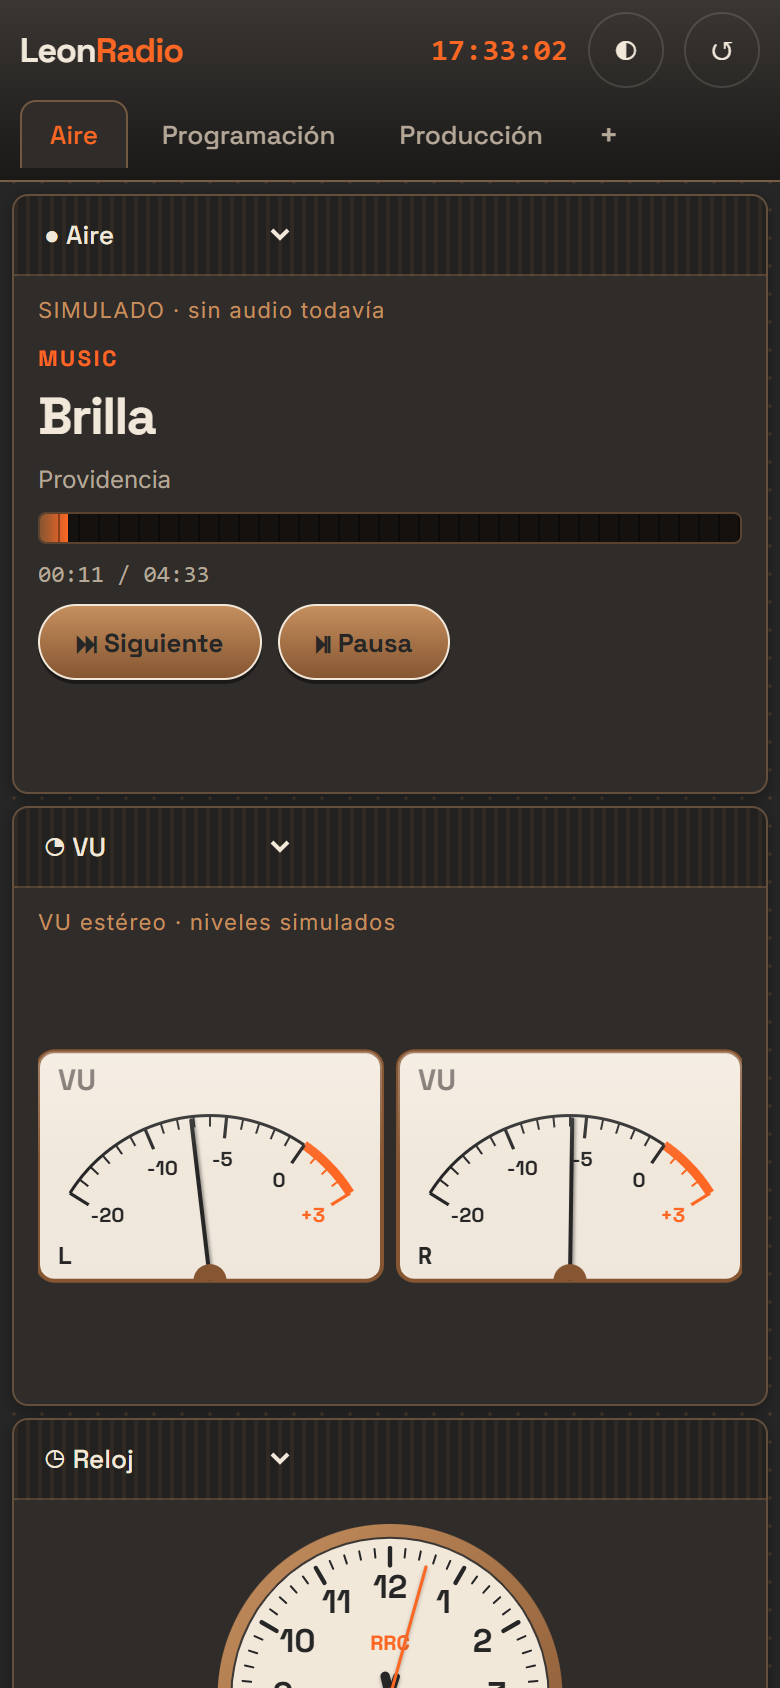
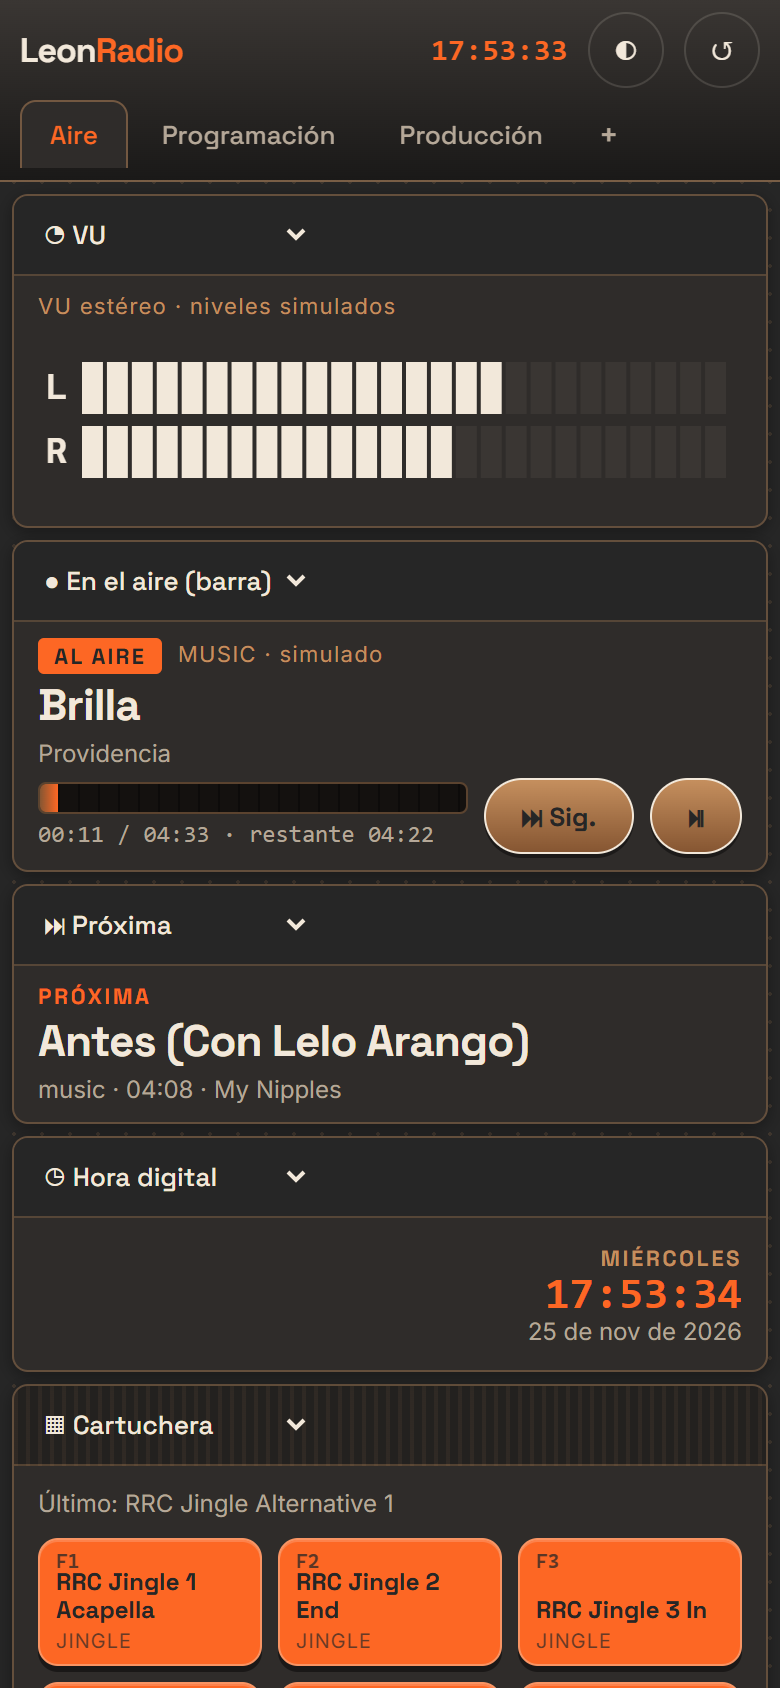
UI: nueva composición del workspace Aire (franja delgada + tres columnas)
- franja superior compacta: VU en barras, En el aire con transporte, Próxima y Hora digital
- cuerpo en tres columnas: Cartuchera+Historial | Cola | Dial/RDS+Reloj
- áreas con encabezado compacto (aparece al pasar el cursor) y barra de estado
- servidor: archivos de la UI con Cache-Control: no-cache
- capturas regeneradas; 12 pruebas

diff --git a/ui/src/js/areas.js b/ui/src/js/areas.js
@@ -6,7 +6,7 @@ import { render } from "./renderer.js";
 
 let seq = 0;
 export const newId = () => `a${Date.now().toString(36)}${(seq++).toString(36)}`;
-export const area = (editor) => ({ type: "area", id: newId(), editor });
+export const area = (editor, slim = false) => ({ type: "area", id: newId(), editor, ...(slim ? { slim: true } : {}) });
 export const split = (dir, a, b, ratio = 0.5) => ({ type: "split", dir, ratio, a, b });
 
 // ---- operaciones puras sobre el árbol ------------------------------------
@@ -34,6 +34,15 @@ export function closeArea(tree, id) {
 
 export function setEditor(tree, id, editor) {
   return mapTree(tree, (n) => (n.id === id ? { ...n, editor } : n));
+}
+
+/** Encabezado compacto: el área ocupa todo el espacio y el encabezado aparece al pasar el cursor. */
+export function setSlim(tree, id, slim) {
+  return mapTree(tree, (n) => {
+    if (n.id !== id) return n;
+    const { slim: _old, ...rest } = n;
+    return slim ? { ...rest, slim: true } : rest;
+  });
 }
 
 export function setRatio(tree, splitNode, ratio) {
@@ -119,7 +128,7 @@ export class AreaManager {
 
   buildArea(node) {
     const sec = document.createElement("section");
-    sec.className = "area";
+    sec.className = node.slim ? "area slim" : "area";
     const head = document.createElement("header");
 
     const sel = document.createElement("select");
@@ -145,6 +154,8 @@ export class AreaManager {
     sp.className = "sp";
     head.append(
       sel, sp,
+      mk("⇕", node.slim ? "Mostrar siempre el encabezado" : "Encabezado compacto (aparece al pasar el cursor)",
+         () => this.commit(setSlim(this.tree, node.id, !node.slim))),
       mk("◫", "Dividir lado a lado", () => this.commit(splitArea(this.tree, node.id, "h"))),
       mk("⬓", "Dividir arriba/abajo", () => this.commit(splitArea(this.tree, node.id, "v"))),
       mk("✕", "Cerrar área", () => this.commit(closeArea(this.tree, node.id)), countAreas(this.tree) <= 1),

diff --git a/ui/src/js/main.js b/ui/src/js/main.js
@@ -1,7 +1,7 @@
 import { connectEvents, getEditors, getInfo } from "./api.js";
 import { AreaManager, area, split } from "./areas.js";
 
-const KEY = "leonradio.workspaces.v4";
+const KEY = "leonradio.workspaces.v5";
 const $ = (s) => document.querySelector(s);
 const store = {
   get() { try { return JSON.parse(localStorage.getItem(KEY)); } catch { return null; } },
@@ -12,8 +12,14 @@ const defaults = () => ({
   active: 0,
   list: [
     { name: "Aire", tree: split("v",
-        split("h", area("aire"), split("h", area("vu"), split("h", area("reloj"), area("dial"), 0.42), 0.42), 0.30),
-        split("h", area("cola"), split("h", area("cartuchera"), area("historial"), 0.55), 0.34), 0.5) },
+        // franja superior delgada: VU | en el aire | próxima | hora
+        split("h", area("vu", true),
+          split("h", area("aire-barra", true), split("h", area("proxima", true), area("hora", true), 0.55), 0.54), 0.17),
+        // cuerpo en tres columnas: cartuchera+historial | cola (protagonista) | dial+reloj
+        split("h",
+          split("v", area("cartuchera"), area("historial"), 0.6),
+          split("h", area("cola"), split("v", area("dial"), area("reloj"), 0.4), 0.63), 0.27),
+        0.17) },
     { name: "Programación", tree: split("h", area("cola"), area("historial"), 0.45) },
     { name: "Producción", tree: split("h",
         split("v", area("aire"), area("cola"), 0.4),
@@ -72,6 +78,7 @@ async function boot() {
   tickClock(); setInterval(tickClock, 1000);
   const [info, editors] = await Promise.all([getInfo(), getEditors()]);
   $("#station").textContent = info.station;
+  $("#status-text").textContent = `${info.config.name} · motor simulado · API v${info.api_version}`;
   mgr = new AreaManager($("#screen"), {
     editors,
     onChange: (tree) => { ws.list[ws.active].tree = tree; store.set(ws); },

diff --git a/ui/src/css/app.css b/ui/src/css/app.css
@@ -136,3 +136,30 @@ table.u-tab{width:100%;border-collapse:collapse;font-size:12.5px}
   .btn-i{width:38px;height:38px}
   .area select{padding:6px 4px;font-size:13px}
 }
+
+/* ---- tonos nuevos y franja compacta ---- */
+.u-label.title{font:700 22px/1.15 var(--display);letter-spacing:-.02em;white-space:nowrap;overflow:hidden;text-overflow:ellipsis;max-width:100%}
+.u-label.onair{display:inline-block;background:var(--c-orange);color:var(--c-carbon);font:700 11px var(--display);letter-spacing:.1em;padding:2px 8px;border-radius:3px}
+.u-row>.u-col{flex:1 1 auto;min-width:0}
+.area.slim{position:relative}
+.area.slim>header{position:absolute;top:0;left:0;right:0;z-index:5;background:var(--bg);opacity:0;pointer-events:none;transition:opacity .15s}
+.area.slim:hover>header,.area.slim:focus-within>header{opacity:1;pointer-events:auto}
+.area.slim .body{padding:8px 12px}
+.area.slim .u-col{gap:3px}
+.area.slim .cmp{min-height:50px}
+.dclock{display:flex;flex-direction:column;justify-content:center;align-items:flex-end;height:100%;min-height:60px;text-align:right}
+.dc-time{font:700 clamp(22px,3.2vw,40px)/1 ui-monospace,Consolas,monospace;color:var(--c-orange);letter-spacing:.01em}
+.dc-day{font:700 11px var(--display);letter-spacing:.12em;color:var(--c-bronze);text-transform:uppercase}
+.dc-date{font:500 12px var(--body);color:var(--ink-2)}
+.status{flex:none;padding:3px 12px;font:500 11px var(--mono);color:var(--ink-2);border-top:1px solid rgba(197,143,94,.3);background:rgba(0,0,0,.25)}
+@media (max-width:820px){
+  .area.slim>header{position:static;opacity:1;pointer-events:auto}
+  .status{position:sticky;bottom:0}
+  .u-label.title{white-space:normal}
+}
+@media (max-width:820px){
+  .area.slim{min-height:0}
+  .area.slim .body{max-height:none}
+  .area.slim .cmp{min-height:90px}
+  .status{position:static}
+}

diff --git a/ui/src/js/components/vu-meter.js b/ui/src/js/components/vu-meter.js
@@ -73,6 +73,26 @@ function meter(ctx, T, x, y, w, h, value, label) {
   ctx.restore();
 }
 
+// Versión compacta (áreas bajas): dos barras de LED horizontales, como en una franja de consola.
+function bars(ctx, T, w, h, v) {
+  const rows = [["L", v[0]], ["R", v[1]]];
+  const gapY = 6, rowH = Math.max(8, Math.min(26, (h - gapY * 3) / 2));
+  const top = (h - (rowH * 2 + gapY)) / 2;
+  const x0 = 22, segs = 26, gap = 2;
+  const segW = Math.max(3, (w - x0 - 8 - gap * (segs - 1)) / segs);
+  rows.forEach(([label, val], i) => {
+    const y = top + i * (rowH + gapY);
+    ctx.fillStyle = T.cream; ctx.font = `700 ${Math.max(10, rowH * 0.7)}px ${FONT_MONO}`;
+    ctx.textAlign = "left"; ctx.textBaseline = "middle";
+    ctx.fillText(label, 4, y + rowH / 2);
+    const on = Math.round(Math.min(1, val) * segs);
+    for (let s = 0; s < segs; s++) {
+      ctx.fillStyle = s < on ? (s >= segs - 4 ? T.orange : s >= segs - 9 ? T.bronze : T.cream) : T.g700;
+      ctx.fillRect(x0 + s * (segW + gap), y, segW, rowH);
+    }
+  });
+}
+
 export function vuMeter() {
   const target = [0, 0];
   const value = [0, 0];
@@ -86,6 +106,7 @@ export function vuMeter() {
       const k = target[i] > value[i] ? 0.035 : 0.12;
       value[i] += (target[i] - value[i]) * (1 - Math.exp(-dt / k));
     }
+    if (h < 150) { bars(ctx, T, w, h, value); return; }   // áreas bajas: barras de LED
     // caras con proporción de VU real (1.5:1), centradas verticalmente
     const gap = 8;
     const mw = Math.min((w - gap) / 2, h * 1.5);

diff --git a/ui/src/js/components/digital-clock.js b/ui/src/js/components/digital-clock.js
@@ -1,0 +1,27 @@
+// Reloj digital grande para franjas compactas: hora de la emisora, día y fecha.
+export function digitalClock(props) {
+  const tz = props.timezone || "America/Bogota";
+  const tfmt = new Intl.DateTimeFormat("es-CO", { timeZone: tz, hour12: false, hour: "2-digit", minute: "2-digit", second: "2-digit" });
+  const dayf = new Intl.DateTimeFormat("es-CO", { timeZone: tz, weekday: "long" });
+  const datef = new Intl.DateTimeFormat("es-CO", { timeZone: tz, day: "numeric", month: "short", year: "numeric" });
+
+  const root = document.createElement("div");
+  root.className = "dclock";
+  const day = document.createElement("div"); day.className = "dc-day";
+  const time = document.createElement("div"); time.className = "dc-time";
+  const date = document.createElement("div"); date.className = "dc-date";
+  root.append(day, time, date);
+
+  const update = () => {
+    const now = Date.now();
+    day.textContent = dayf.format(now);
+    time.textContent = tfmt.format(now);
+    date.textContent = datef.format(now).replace(/\./g, "");
+  };
+  update();
+  const id = setInterval(() => {
+    if (!root.isConnected) { clearInterval(id); return; }
+    update();
+  }, 250);
+  return root;
+}

diff --git a/ui/src/js/components/index.js b/ui/src/js/components/index.js
@@ -2,12 +2,14 @@
 // Firma: (props, ctx) => HTMLElement. Las props son JSON y NO son de confianza: usar textContent.
 import { analogClock } from "./analog-clock.js";
 import { cartwall } from "./cartwall.js";
+import { digitalClock } from "./digital-clock.js";
 import { fmDial } from "./fm-dial.js";
 import { vuMeter } from "./vu-meter.js";
 
 export const COMPONENTS = {
   "vu-meter": vuMeter,
   "analog-clock": analogClock,
+  "digital-clock": digitalClock,
   "fm-dial": fmDial,
   cartwall,
 };

diff --git a/ui/src/index.html b/ui/src/index.html
@@ -20,6 +20,7 @@
   </div>
 </div>
 <main id="screen"></main>
+<footer class="status"><span id="status-text">…</span></footer>
 <script type="module" src="js/main.js"></script>
 </body>
 </html>

diff --git a/core/src/leonradio_core/builtin/__init__.py b/core/src/leonradio_core/builtin/__init__.py
@@ -59,6 +59,50 @@ class HistorialEditor(sdk.Editor):
                    _STATUS.get(p["status"], p["status"])] for p in plays], narrow_hide=[1, 3, 4])
 
 
+class AireBarraEditor(sdk.Editor):
+    """Franja «En el aire» de una sola altura reducida: etiqueta, título, progreso y transporte."""
+    id, label, icon = "aire-barra", "En el aire (barra)", "●"
+
+    def draw(self, ui: UI, ctx: sdk.Context) -> None:
+        now = ctx.state.get("playout.now")
+        if not now:
+            ui.label("Nada al aire", "muted")
+            return
+        dur = max(now["duration_ms"], 1)
+        el = now["elapsed_ms"]
+        with ui.row():
+            ui.label("AL AIRE", "onair")
+            ui.label(f"{now['kind'].upper()} · simulado", "warn")
+        ui.label(now["title"], "title")
+        ui.label(now.get("artist") or " ", "muted")
+        with ui.row():
+            ui.progress(el / dur, f"{_mmss(el)} / {_mmss(dur)} · restante {_mmss(max(dur - el, 0))}"
+                        + ("  · EN PAUSA" if now.get("paused") else ""))
+            ui.button("⏭ Sig.", "playout.next")
+            ui.button("⏯", "playout.pause")
+
+
+class ProximaEditor(sdk.Editor):
+    id, label, icon = "proxima", "Próxima", "⏭"
+
+    def draw(self, ui: UI, ctx: sdk.Context) -> None:
+        queue = ctx.state.get("playout.queue", [])
+        ui.label("PRÓXIMA", "accent")
+        if not queue:
+            ui.label("—", "title")
+            return
+        nxt = queue[0]
+        ui.label(nxt["title"], "title")
+        ui.label(f"{nxt['kind']} · {_mmss(nxt['duration_ms'])}" + (f" · {nxt['artist']}" if nxt.get("artist") else ""), "muted")
+
+
+class HoraEditor(sdk.Editor):
+    id, label, icon = "hora", "Hora digital", "◷"
+
+    def draw(self, ui: UI, ctx: sdk.Context) -> None:
+        ui.custom("digital-clock", timezone=ctx.config["timezone"], name=ctx.config["short"])
+
+
 class VuEditor(sdk.Editor):
     id, label, icon = "vu", "VU", "◔"
 
@@ -101,7 +145,8 @@ class CartucheraEditor(sdk.Editor):
 
 def register(host: sdk.Host) -> DemoPlayout:
     sdk.bind(host)  # dueño «builtin», todos los permisos
-    for cls in (AireEditor, ColaEditor, HistorialEditor, VuEditor, RelojEditor, DialEditor, CartucheraEditor):
+    for cls in (AireEditor, AireBarraEditor, ProximaEditor, HoraEditor, ColaEditor, HistorialEditor,
+                VuEditor, RelojEditor, DialEditor, CartucheraEditor):
         sdk.register_editor(cls)
     playout = DemoPlayout(host)
     host.register_command("playout.next", lambda ctx: playout.next("skipped"))

diff --git a/core/tests/test_platform.py b/core/tests/test_platform.py
@@ -130,3 +130,15 @@ def test_demo_playout_emits_levels_and_ticks_once_per_second():
     host.events.subscribe(lambda n, d: levels.append(d) if n == "audio.levels" else None)
     playout.tick(0.1)
     assert 0.0 <= levels[-1]["l"] <= 1.0 and 0.0 <= levels[-1]["r"] <= 1.0
+
+
+def test_compact_strip_editors_draw():
+    host = sdk.Host()
+    builtin.register(host)
+    bar = host.draw_editor("aire-barra")
+    tones = [c.get("tone") for c in bar["children"] if c["t"] == "label"]
+    assert "title" in tones                       # título en una sola línea
+    assert any(c["t"] == "row" and any(x["t"] == "progress" for x in c["children"]) for c in bar["children"])
+    assert host.draw_editor("proxima")["children"][0]["text"] == "PRÓXIMA"
+    hora = host.draw_editor("hora")["children"][0]
+    assert hora["component"] == "digital-clock" and hora["props"]["timezone"] == "America/Bogota"

diff --git a/core/src/leonradio_core/server.py b/core/src/leonradio_core/server.py
@@ -21,6 +21,15 @@ log = logging.getLogger("leonradio.server")
 REPO = Path(__file__).resolve().parents[3]  # <repo>/core/src/leonradio_core/server.py
 
 
+class NoCacheStatic(StaticFiles):
+    """Archivos de la UI siempre revalidados: al desarrollar, el navegador no se queda con versiones viejas."""
+
+    async def get_response(self, path, scope):
+        resp = await super().get_response(path, scope)
+        resp.headers["Cache-Control"] = "no-cache"
+        return resp
+
+
 class CommandBody(BaseModel):
     args: dict = {}
 
@@ -110,7 +119,7 @@ def create_app(
 
     ui = ui_dir or Path(os.environ.get("LEONRADIO_UI", REPO / "ui" / "src"))
     if ui.is_dir():
-        app.mount("/", StaticFiles(directory=ui, html=True), name="ui")
+        app.mount("/", NoCacheStatic(directory=ui, html=True), name="ui")
     return app
 
 

diff --git a/tools/screenshots.py b/tools/screenshots.py
@@ -34,7 +34,7 @@ with sync_playwright() as p:
 
     # algo de actividad para que Historial y Cartuchera tengan contenido
     for _ in range(2):
-        page.get_by_role("button", name="Siguiente").first.click()
+        page.get_by_role("button", name="Sig.").first.click()
         page.wait_for_timeout(700)
     for key in ("F1", "F3", "F6"):
         page.keyboard.press(key)

diff --git a/core/src/leonradio_core/uischema.py b/core/src/leonradio_core/uischema.py
@@ -9,7 +9,7 @@ from __future__ import annotations
 from contextlib import contextmanager
 from typing import Any, Iterator
 
-TONES = {"normal", "muted", "accent", "big", "mono", "ok", "warn"}
+TONES = {"normal", "muted", "accent", "big", "mono", "ok", "warn", "title", "onair"}
 
 
 class UI:
